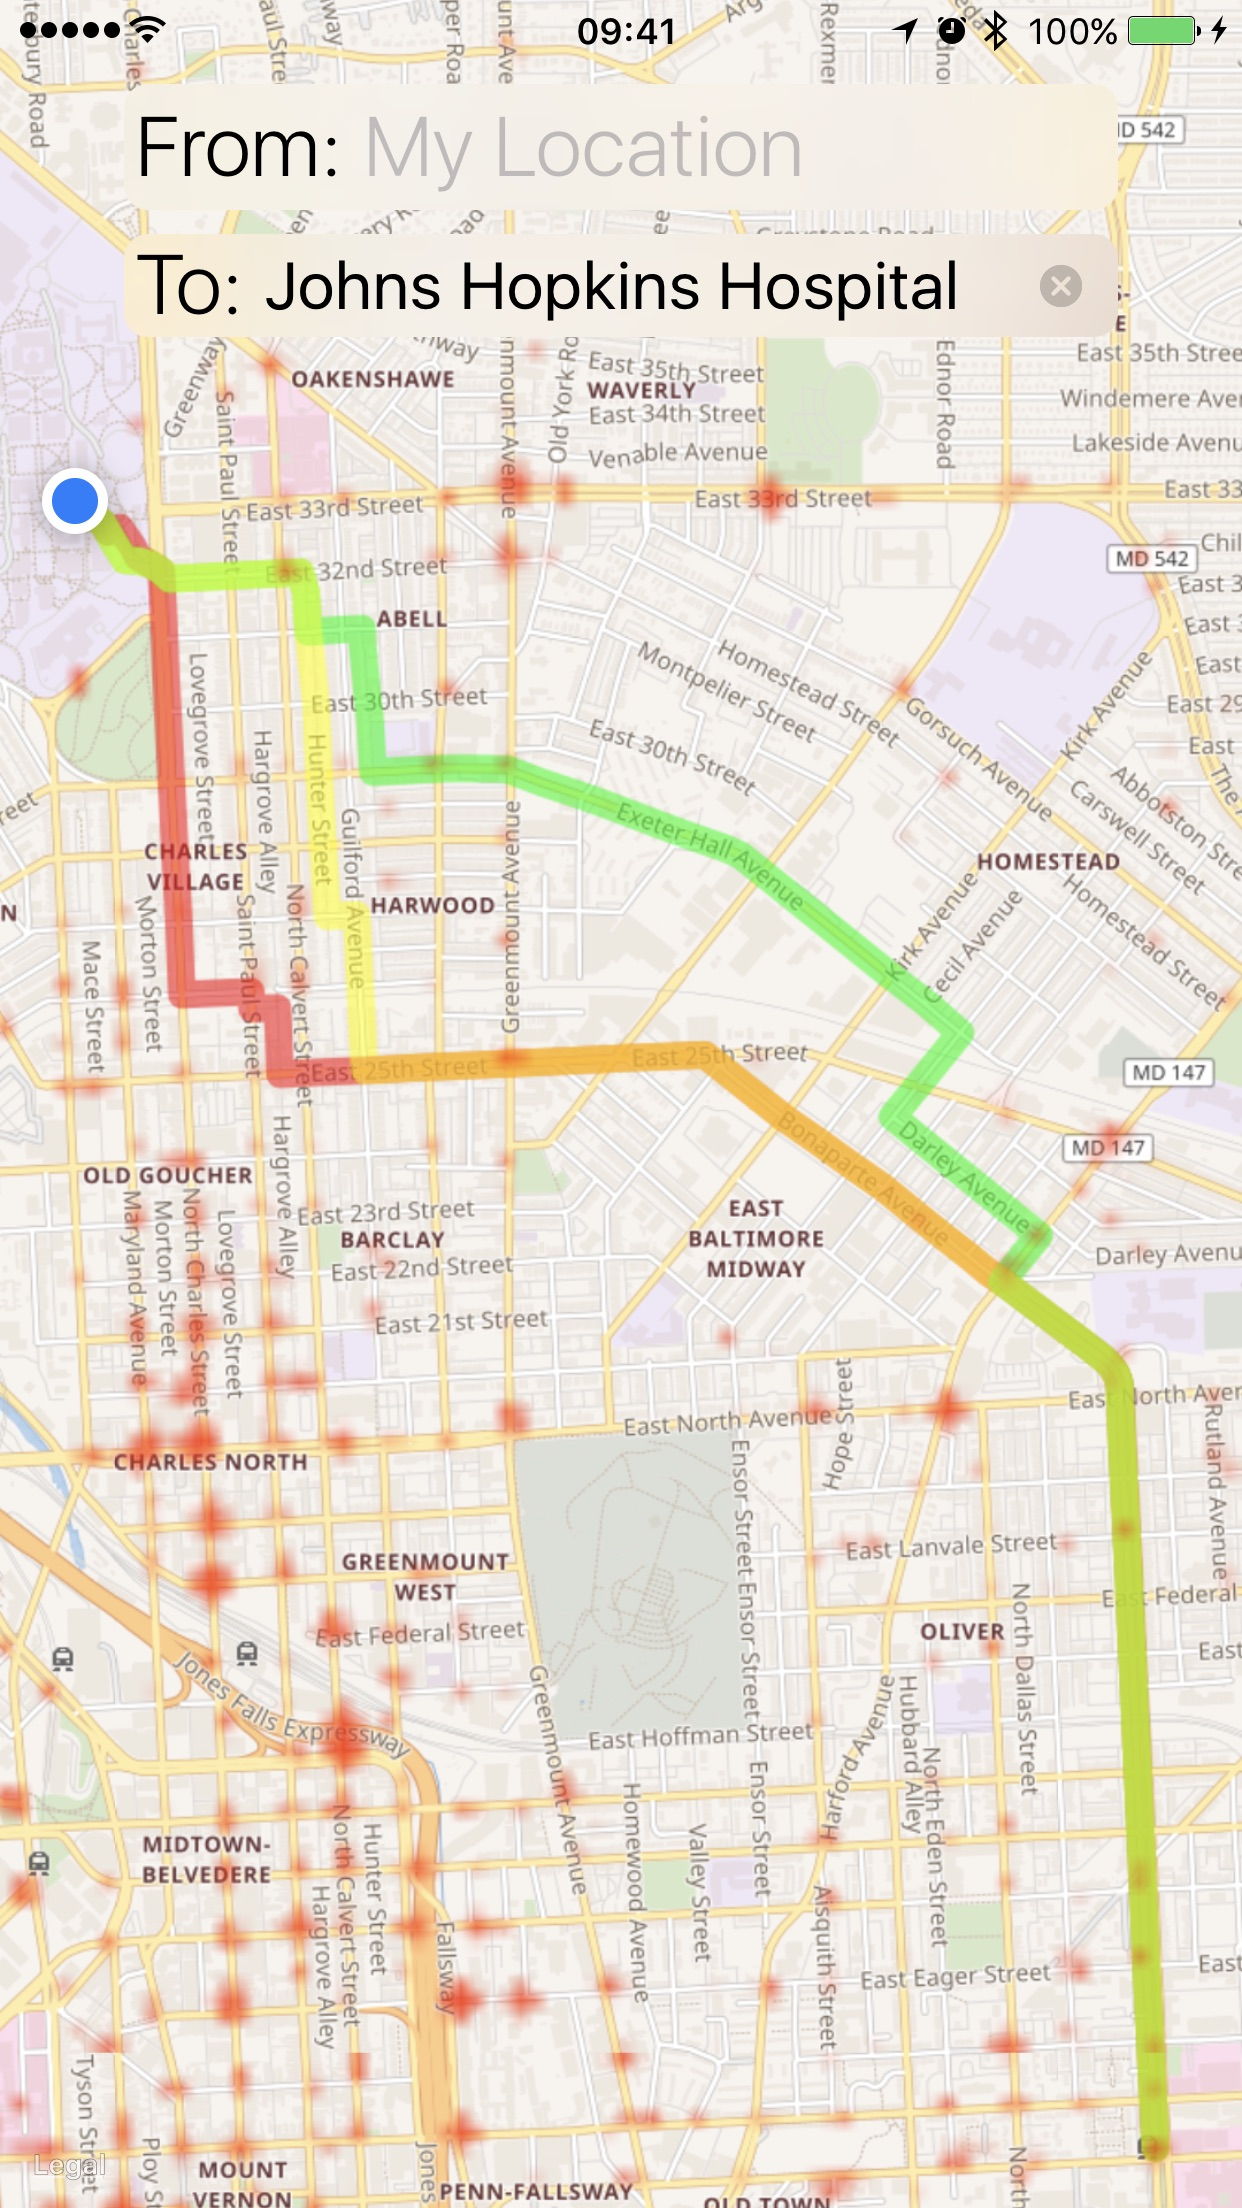
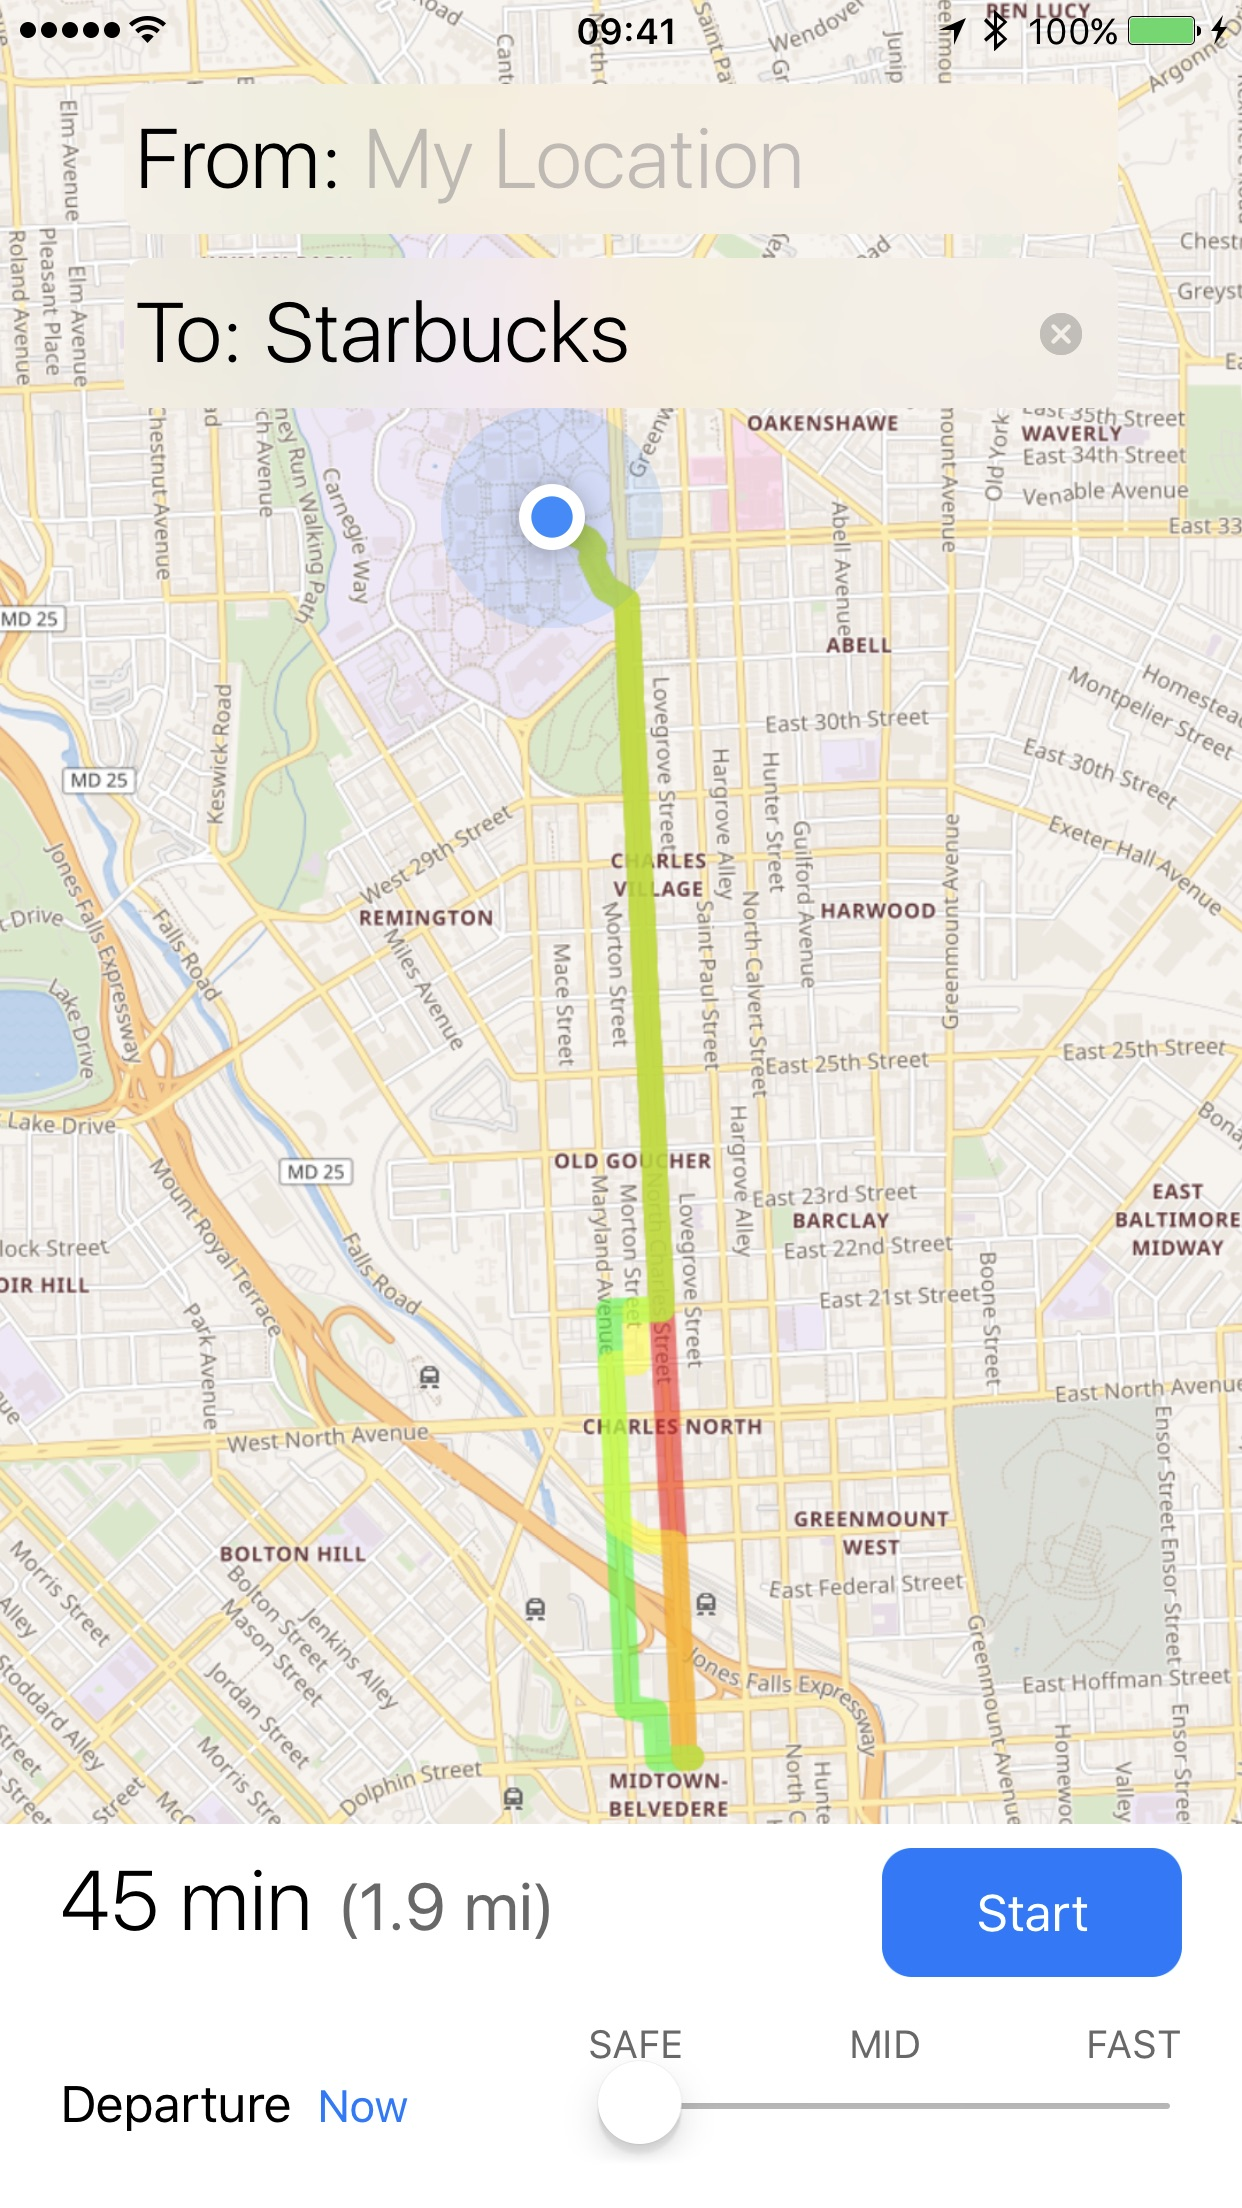
Route picker labels

diff --git a/SurvivalApp/Survival/RoutingState.swift b/SurvivalApp/Survival/RoutingState.swift
@@ -8,12 +8,12 @@
 import MapKit
 
 /// State of routing
-class RoutingState: State {
+class RoutingState: State, RoutingViewControllerDelegate {
     /// Event delegate
     weak var delegate: StateDelegate?
     
-    /// Array of routes
-    private var routes = [Route?](repeating: nil, count: 3)
+    /// Array of routes (order: safest, middle, fastest)
+    var routes = [Route?](repeating: nil, count: 3)
     /// Dictionary from MKPolyline to Route
     private var routeForPolyline = [MKPolyline: Route]()
     
@@ -65,38 +65,34 @@ class RoutingState: State {
     /// - Parameters:
     ///   - from: origination
     ///   - to: destination
-    init(from: CLLocationCoordinate2D, to: CLLocationCoordinate2D) {
-        let distance = MKMetersBetweenMapPoints(MKMapPointForCoordinate(from), MKMapPointForCoordinate(to))
-        if distance > 100000 {
-            delegate?.reportError(title: "Are you seriously going to walk this far?", message: nil)
-            return
+    init?(from: CLLocationCoordinate2D, to: CLLocationCoordinate2D) {
+        if MKMetersBetweenMapPoints(MKMapPointForCoordinate(from), MKMapPointForCoordinate(to)) > 100000 {
+            return nil
         }
         let route = Route(from: from, to: to)
-        routes[2] = route
         route.calculateRoute {
-            var coordinates = $0
-            let polyline = MKPolyline(coordinates: &coordinates, count: coordinates.count)
-            self.routeForPolyline[polyline] = route
-            self.delegate?.didGenerate(overlay: polyline)
+            self.routes[2] = route
+            self.handle(coordinates: $0, route: route)
         }
         RoutingState.avoidLinkIds(from: from, to: to) {
             let middleRoute = MiddleRoute(from: from, to: to, avoidLinkIds: $0)
-            self.routes[1] = middleRoute
             middleRoute.calculateRoute {
-                var coordinates = $0
-                let polyline = MKPolyline(coordinates: &coordinates, count: coordinates.count)
-                self.routeForPolyline[polyline] = middleRoute
-                self.delegate?.didGenerate(overlay: polyline)
+                self.routes[1] = middleRoute
+                self.handle(coordinates: $0, route: middleRoute)
             }
             let safestRoute = SafestRoute(from: from, to: to, avoidLinkIds: $0)
-            self.routes[0] = safestRoute
             safestRoute.calculateRoute {
-                var coordinates = $0
-                let polyline = MKPolyline(coordinates: &coordinates, count: coordinates.count)
-                self.routeForPolyline[polyline] = safestRoute
-                self.delegate?.didGenerate(overlay: polyline)
+                self.routes[0] = safestRoute
+                self.handle(coordinates: $0, route: safestRoute)
             }
         }
+    }
+    
+    private func handle(coordinates: [CLLocationCoordinate2D], route: Route) {
+        let polyline = MKPolyline(coordinates: coordinates, count: coordinates.count)
+        self.routeForPolyline[polyline] = route
+        self.delegate?.didGenerate(overlay: polyline)
+        self.routingViewController?.update()
     }
     
     private weak var routingViewController: RoutingViewController?
@@ -112,6 +108,7 @@ class RoutingState: State {
         if let dst = segue.destination as? RoutingViewController {
             bottomHeight.constant = dst.preferredContentSize.height
             routingViewController = dst
+            dst.delegate = self
         }
     }
 }

diff --git a/SurvivalApp/Survival/RoutingViewController.swift b/SurvivalApp/Survival/RoutingViewController.swift
@@ -7,7 +7,13 @@
 
 import UIKit
 
+protocol RoutingViewControllerDelegate: class {
+    var routes: [Route?] { get }
+}
+
 class RoutingViewController: UIViewController {
+    weak var delegate: RoutingViewControllerDelegate?
+    
     @IBOutlet weak var timeLabel: UILabel!
     @IBOutlet weak var distanceLabel: UILabel!
     @IBOutlet weak var slider: UISlider!
@@ -15,7 +21,11 @@ class RoutingViewController: UIViewController {
     private enum RouteType: Int {
         case safest, middle, fastest
     }
-    private var routeType = RouteType.middle
+    private var routeType: RouteType? {
+        didSet {
+            updateLabels()
+        }
+    }
     
     @IBAction func sliderValueChange(_ sender: UISlider) {
         sender.value.round(.toNearestOrAwayFromZero)
@@ -32,6 +42,32 @@ class RoutingViewController: UIViewController {
         let newValue = ((pointTapped.x - positionOfSlider.x) * CGFloat(slider.maximumValue) / widthOfSlider)
         slider.value = Float(newValue)
         sliderValueChange(slider)
+    }
+    
+    private let dateComponentsFormatter: DateComponentsFormatter = {
+        let formatter = DateComponentsFormatter()
+        formatter.allowedUnits = [.hour, .minute]
+        formatter.unitsStyle = .short
+        return formatter
+    }()
+    
+    private func updateLabels() {
+        guard let index = routeType?.rawValue,
+                let route = delegate?.routes[index],
+                let time = route.result["time"] as? Double,
+                let distance = route.result["distance"] as? Double else {
+            timeLabel.text = "N/A"
+            distanceLabel.text = "(N/A)"
+            return
+        }
+        timeLabel.text = dateComponentsFormatter.string(from: time)
+        distanceLabel.text = String(format: "(%.1f mi)", distance)
+    }
+    
+    func update() {
+        if routeType == nil, delegate?.routes[0] != nil {
+            routeType = .safest
+        }
     }
     
     @IBAction func start() {

diff --git a/SurvivalApp/Survival/ViewController.swift b/SurvivalApp/Survival/ViewController.swift
@@ -159,7 +159,11 @@ class ViewController: UIViewController, MKMapViewDelegate, CLLocationManagerDele
             reportError(title: "Please enter an origination", message: "Cannot get current location.")
             return
         }
-        state = RoutingState(from: from, to: to)
+        if let routingState = RoutingState(from: from, to: to) {
+            state = routingState
+        } else {
+            reportError(title: "Are you seriously going to walk this far?", message: nil)
+        }
     }
     
     override func prepare(for segue: UIStoryboardSegue, sender: Any?) {

diff --git a/SurvivalApp/Survival/Route.swift b/SurvivalApp/Survival/Route.swift
@@ -59,7 +59,7 @@ class Route {
                     let sessionID = route["sessionId"] as? String else {
                 return
             }
-            result = route
+            self.result = route
             Route.routeShape(ofSessionID: sessionID, completion: completion)
         }.resume()
     }
